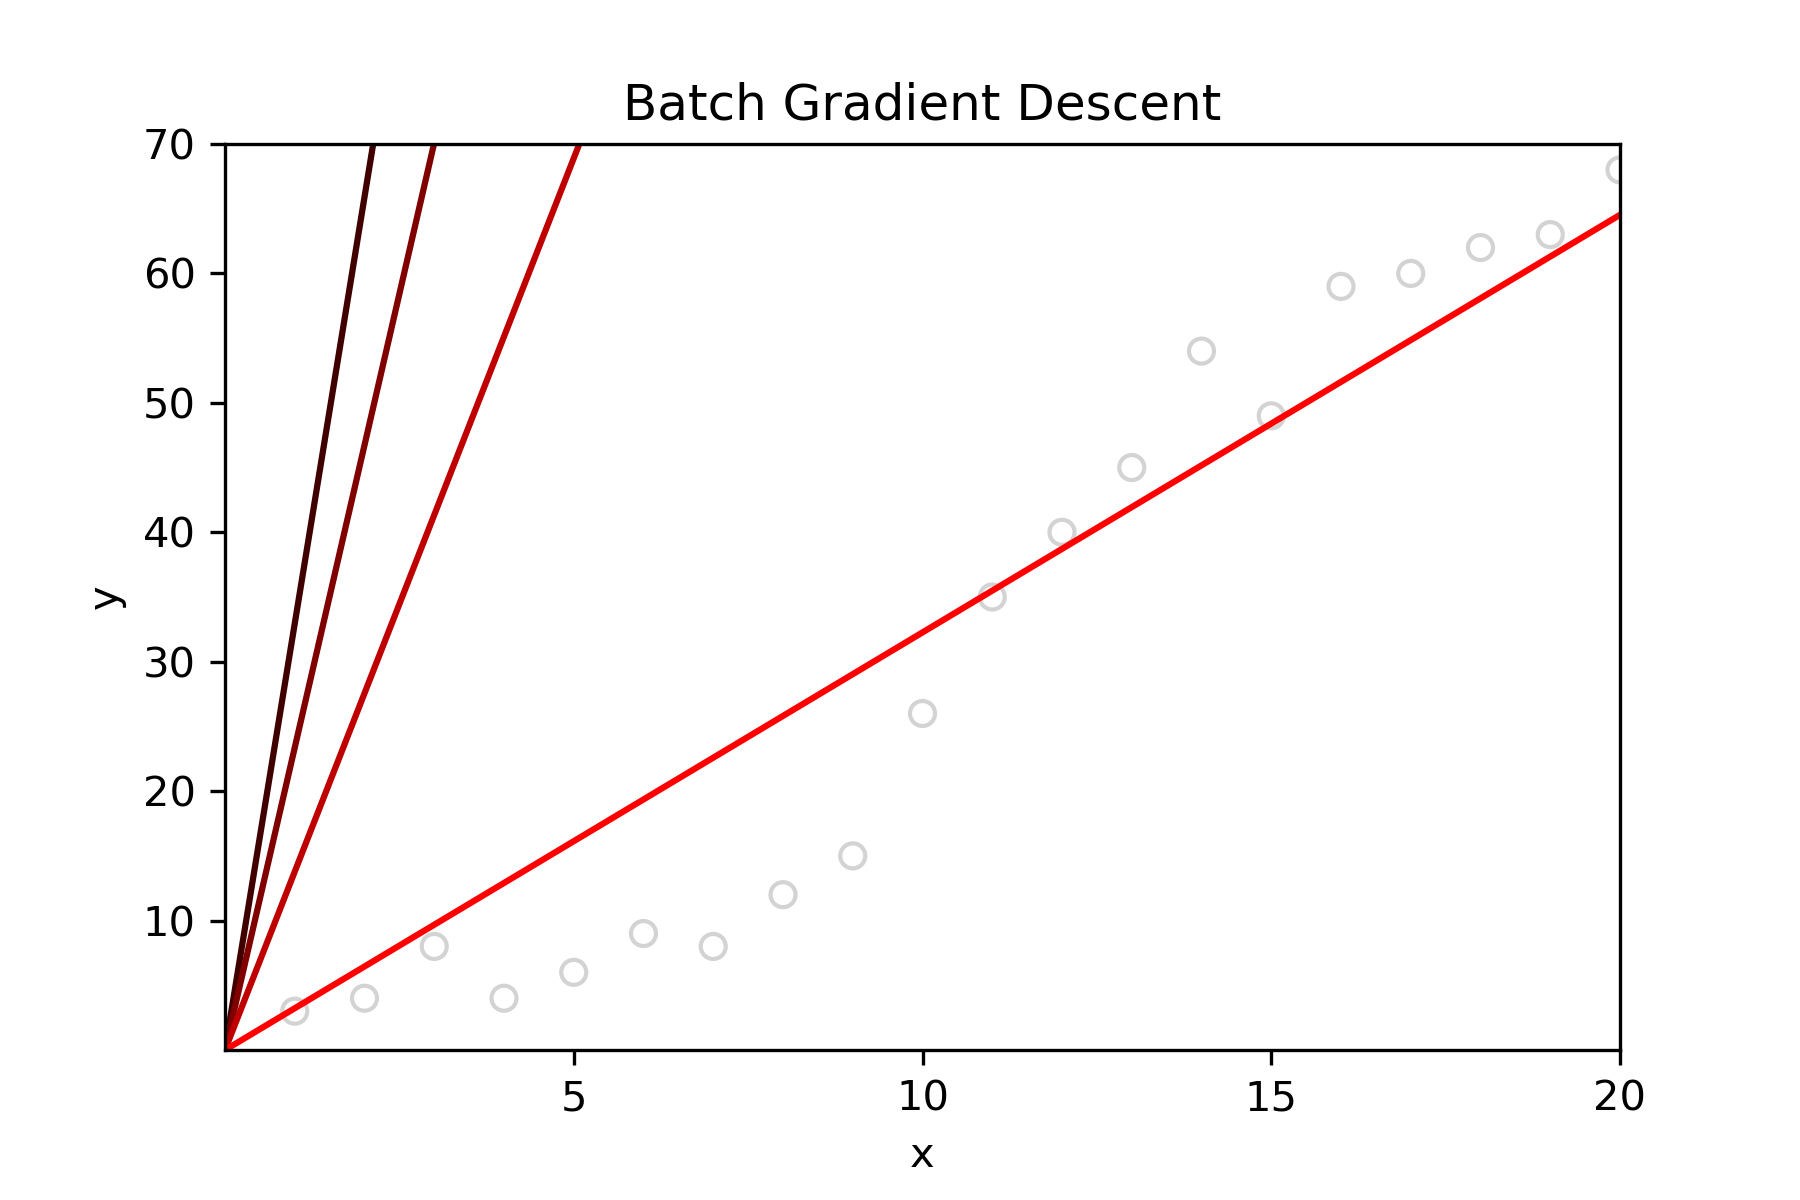
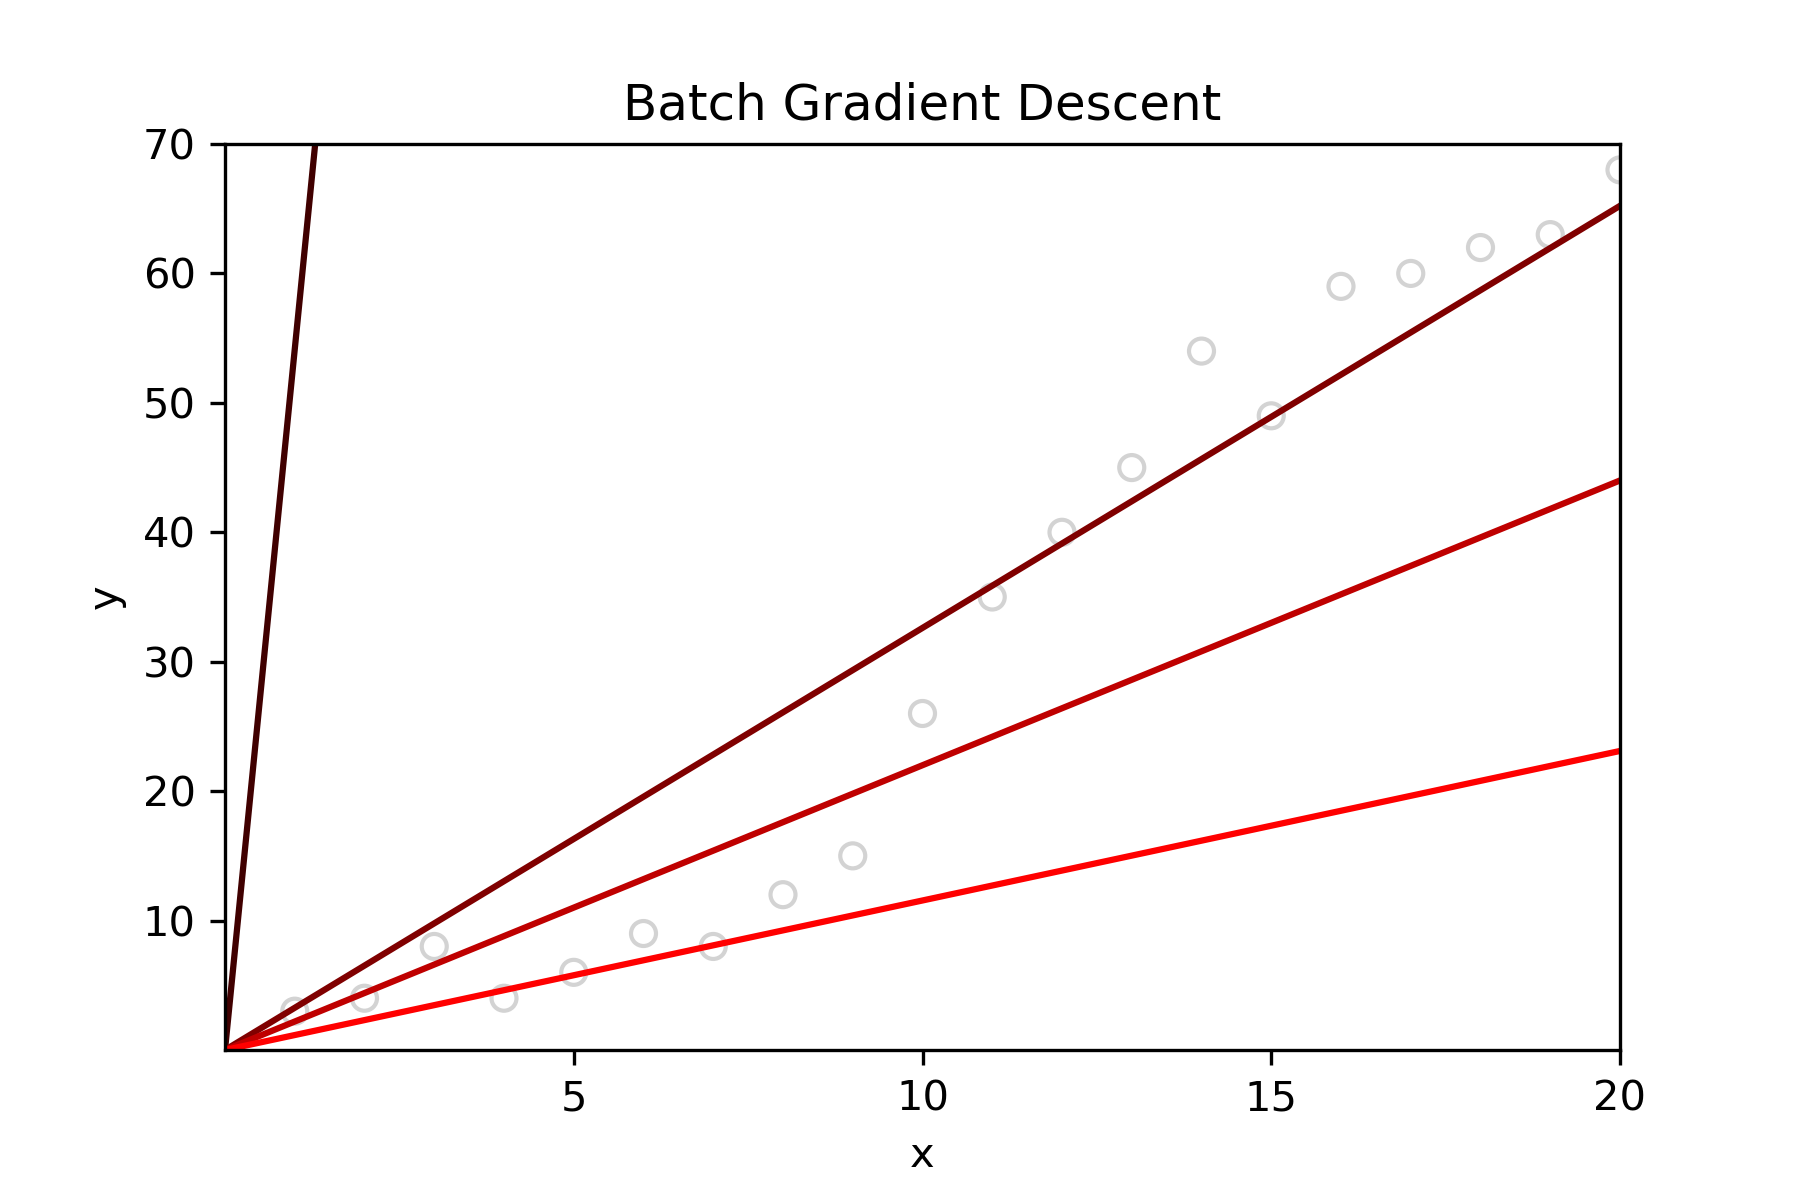
stochastic gradient descent

diff --git a/ch4/sgd.py b/ch4/sgd.py
@@ -1,14 +1,14 @@
 # -*- coding: utf-8 -*-
 """
-Created on Fri Mar 26 15:05:06 2021
+Created on Sun Apr 18 21:57:34 2021
 
 @author: saeli
 """
 import numpy as np
 import pandas as pd
 import matplotlib.pyplot as plt
-    
-# builds a regression model with batch gradient descent
+
+# builds a regression model with online stochastic gradient descent
 # and returns a list of vectors of estimated coefficients for each 
 # predictor parameter, ending in the most recently estimated vector,
 # which should be used as the model
@@ -17,11 +17,8 @@ import matplotlib.pyplot as plt
 #    X         - columns for predictor variables
 #    y         - column for outcome variable
 #    alpha     - learning rate ( in [0, 1] )
-#    epsilon   - minimum change in cost from step i to i + 1
-#                in order to continue ( in [0, 1) )
-#    n_itr     - used to fix the number of iterations to run,
-#                not used if -1
-def bgd(y, X, alpha, epsilon, n_itr=-1):
+#    n_itr     - used to fix the number of iterations to run
+def sgd(y, X, alpha, n_itr=50):
     # initialize our "guess" for each coefficient theta_j to 1
     # and store these in a single column
     theta = np.ones(shape=(X.shape[1], 1))
@@ -30,40 +27,31 @@ def bgd(y, X, alpha, epsilon, n_itr=-1):
     
     m = X.shape[0] # number of data points
     
-    # calculate a column of predicted y values for each data point
-    y_hat = X @ theta
+    # will hold rows that have not yet been used by this epoch of sgd
+    epoch = []
+    # initialize list of costs 
+    costs = []
     
-    # calculate a 1 by 1 matrix that holds the sum of the squared
-    # differences between each y_hat and y
-    cost = np.transpose(y_hat - y) @ (y_hat - y)
-    # initialize list of costs to contain the cost associated with
-    # our initial coefficients (scaled by 1/2m in accordance with
-    # the cost formula)
-    costs = [cost[0][0] / (2 * m)]
-    
-    i = 0 # number of iterations
-    delta = 1 # change in cost
-    
-    while (delta > epsilon and (n_itr == -1 or i < n_itr)):
+    for i in range(n_itr):
+        if len(epoch) == 0:
+            epoch = [row for row in range(m)]
+            
+        curr_row = epoch.pop(np.random.randint(len(epoch)))
+        # calculate a predicted y value for the randomly chosen row
+        y_hat = (X[curr_row] @ theta)[0]
+        difference = y_hat - y[curr_row]
         
-        # calculate a column that holds the difference between y_hat and
-        # y for each data point
-        differences = X @ theta - y
-        
+        # in sgd, cost is simply the scaled square error for our currently chosen row
+        cost = difference**2 / (2 * m)
+        costs.append(cost)
         # update each theta_j by the partial derivative of the cost with
         # respect to theta_j, scaled by learning rate
-        # Note: np.transpose(X) gives us the observed values (x_j) for
-        #       a parameter j in the j'th row of a matrix
-        theta = theta - (alpha / m) * ((np.transpose(X)) @ differences)
+        updates = [(alpha / m) * difference * X[curr_row]]
+        theta = theta - updates
         thetas.append(theta)
-        # using the updated coefficient values, append the new cost value
-        cost = np.transpose(X @ theta - y) @ (X @ theta - y)
-        costs.append(cost[0][0] / (2 * m))
-        delta = abs(costs[i + 1] - costs[i])
         
-        i += 1
         
-    print('Completed in', i, 'iterations.')
+    print('Completed in', n_itr, 'iterations.')
     return thetas
 
 # set up our predictor / response columns
@@ -74,7 +62,7 @@ y = df[['y']]
 # set up our plotting environment
 plt.xlabel('x')
 plt.ylabel('y')
-plt.title('Batch Gradient Descent')
+plt.title('Stochastic Gradient Descent')
 
 xt = np.arange(0, df.x.max() + 5, 5)
 yt = np.arange(0, df.y.max() + 10, 10)
@@ -100,10 +88,10 @@ def plot_model(theta, color='dimgrey'):
 X = X.to_numpy()
 y = y.to_numpy()
 
-
-thetas = bgd(y=y, X=X, alpha=0.001, epsilon=10**-5)
-for theta in thetas:
-    plot_model(theta, color=(1,0,0,0.15))
-
-
-plt.savefig('bgd_process.png', dpi=300)
+# notice that with a small number of iterations and a relatively large alpha,
+# we get some diversity in the final fit due to the stochastic nature of this
+# algorithm
+for i in range(4):
+    plot_model(sgd(y=y, X=X, alpha=0.05, n_itr=10)[-1], color=((i+1)*0.2,0,0))
+    
+plt.savefig('sgd.png', dpi=300)

diff --git a/ch4/bgd.py b/ch4/bgd.py
@@ -19,7 +19,9 @@ import matplotlib.pyplot as plt
 #    alpha     - learning rate ( in [0, 1] )
 #    epsilon   - minimum change in cost from step i to i + 1
 #                in order to continue ( in [0, 1) )
-def bgd(y, X, alpha, epsilon):
+#    n_itr     - used to fix the number of iterations to run,
+#                not used if -1
+def bgd(y, X, alpha, epsilon, n_itr=-1):
     # initialize our "guess" for each coefficient theta_j to 1
     # and store these in a single column
     theta = np.ones(shape=(X.shape[1], 1))
@@ -42,7 +44,7 @@ def bgd(y, X, alpha, epsilon):
     i = 0 # number of iterations
     delta = 1 # change in cost
     
-    while (delta > epsilon):
+    while (delta > epsilon and (n_itr == -1 or i < n_itr)):
         
         # calculate a column that holds the difference between y_hat and
         # y for each data point
@@ -59,9 +61,6 @@ def bgd(y, X, alpha, epsilon):
         costs.append(cost[0][0] / (2 * m))
         delta = abs(costs[i + 1] - costs[i])
         
-        if (costs[i + 1] > costs[i]):
-            print('Cost is increasing. Try reducing alpha.')
-            break
         i += 1
         
     print('Completed in', i, 'iterations.')
@@ -102,11 +101,15 @@ X = X.to_numpy()
 y = y.to_numpy()
 
 # let's fix epsilon at 10^-5 and see which values of alpha
-# result in convergence
-plot_model(bgd(y=y, X=X, alpha=0.1, epsilon=10**-5)[-1], color=(0.25,0,0))
-plot_model(bgd(y=y, X=X, alpha=0.07, epsilon=10**-5)[-1], color=(0.5,0,0))
-plot_model(bgd(y=y, X=X, alpha=0.04, epsilon=10**-5)[-1], color=(0.75,0,0))
-plot_model(bgd(y=y, X=X, alpha=0.01, epsilon=10**-5)[-1], color=(1,0,0))
+# result in a reasonable fit within 5 iterations
+fix_itr = 5
+# 0.02 is too high--the algorithm skips over the minimum cost
+plot_model(bgd(y=y, X=X, alpha=0.02, epsilon=10**-5, n_itr=fix_itr)[-1], color=(0.25,0,0))
+# 0.01 gives us a reasonable fit
+plot_model(bgd(y=y, X=X, alpha=0.01, epsilon=10**-5, n_itr=fix_itr)[-1], color=(0.5,0,0))
+# these last two adjust too slowly for our data
+plot_model(bgd(y=y, X=X, alpha=0.001, epsilon=10**-5, n_itr=fix_itr)[-1], color=(0.75,0,0))
+plot_model(bgd(y=y, X=X, alpha=0.0001, epsilon=10**-5, n_itr=fix_itr)[-1], color=(1,0,0))
 
 
 

diff --git a/ch4/cost.py b/ch4/cost.py
@@ -11,7 +11,7 @@ import matplotlib.pyplot as plt
 # performs batch gradient descent, as in the previous example,
 # but returns a list of costs rather than the thetas associated with
 # those costs
-def batch_gradient_descent(y, X, alpha, epsilon):
+def batch_gradient_descent(y, X, alpha, epsilon, n_itr=-1):
     theta = np.ones(shape=(X.shape[1], 1))
     m = X.shape[0]
     
@@ -21,16 +21,13 @@ def batch_gradient_descent(y, X, alpha, epsilon):
     i = 0
     delta = 1
     
-    while (delta > epsilon):
+    while (delta > epsilon and (n_itr == -1 or i < n_itr)):
         theta = theta - (alpha / m) * ((np.transpose(X)) @ (X @ theta - y))
                 
         cost = np.transpose(X @ theta - y) @ (X @ theta - y)
         costs.append(cost[0][0] / (2 * m))
         delta = abs(costs[i + 1] - costs[i])
         
-        if (costs[i + 1] > costs[i]):
-            print('Cost is increasing. Try reducing alpha.')
-            break
         i += 1
         
     print('Completed in', i, 'iterations.')

diff --git a/ch4/README.md b/ch4/README.md
@@ -15,4 +15,6 @@ cost.py - visualizes the evolution of the cost function value through batch
     gradient descent
     -> creates cost.png
     
-sgd.py - contains an implementation of stochastic gradient descent
+sgd.py - contains an implementation of stochastic gradient descent. visualizes
+    how running sgd gives a non-deterministic fit for some data
+    -> creates sgd.png
